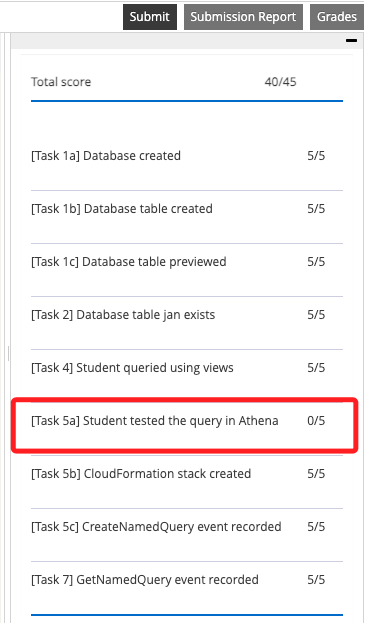
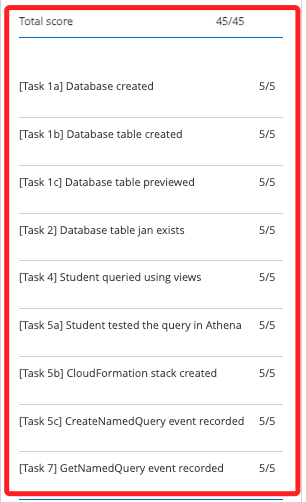
Commit on 2024-10-10 18:14:21

diff --git a/01_課程筆記/00_Lab/95432/Lab04_Querying Data by Using Athena/99_補充說明.md b/01_課程筆記/00_Lab/95432/Lab04_Querying Data by Using Athena/99_補充說明.md
@@ -1,13 +1,5 @@
-# 針對 Task5a
-
-_無法通過，尚不知原因_
-
-<br>
+## 完成
 
 ![](images/img_58.png)
-
-<br>
-
-# 這個 Lab 可以取得 Access ID 及 Key
 
 <br>
